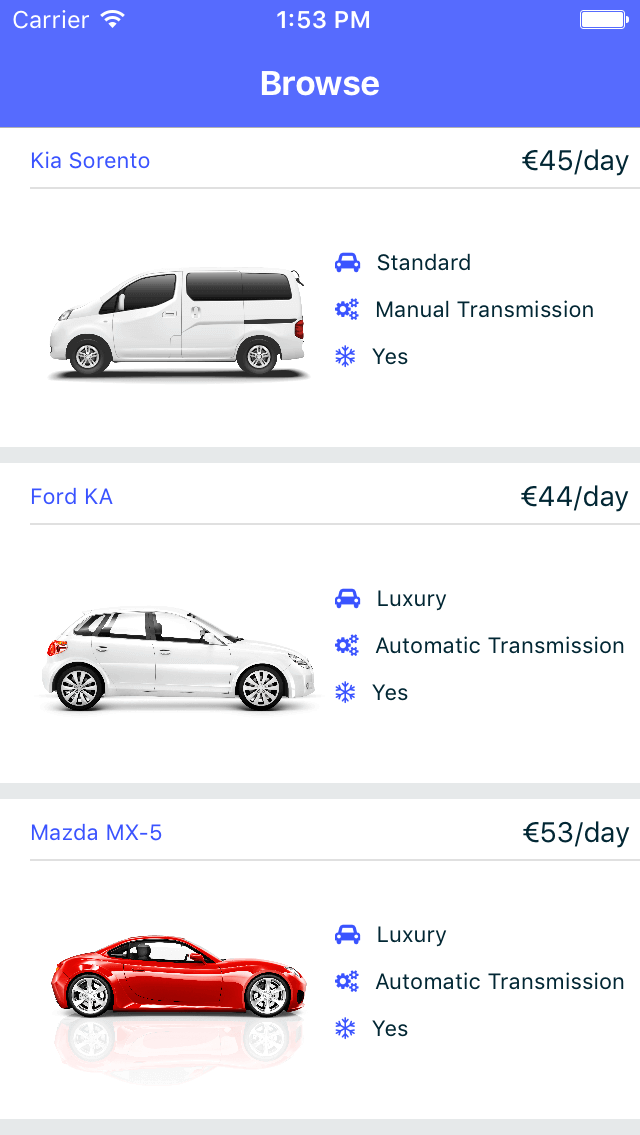
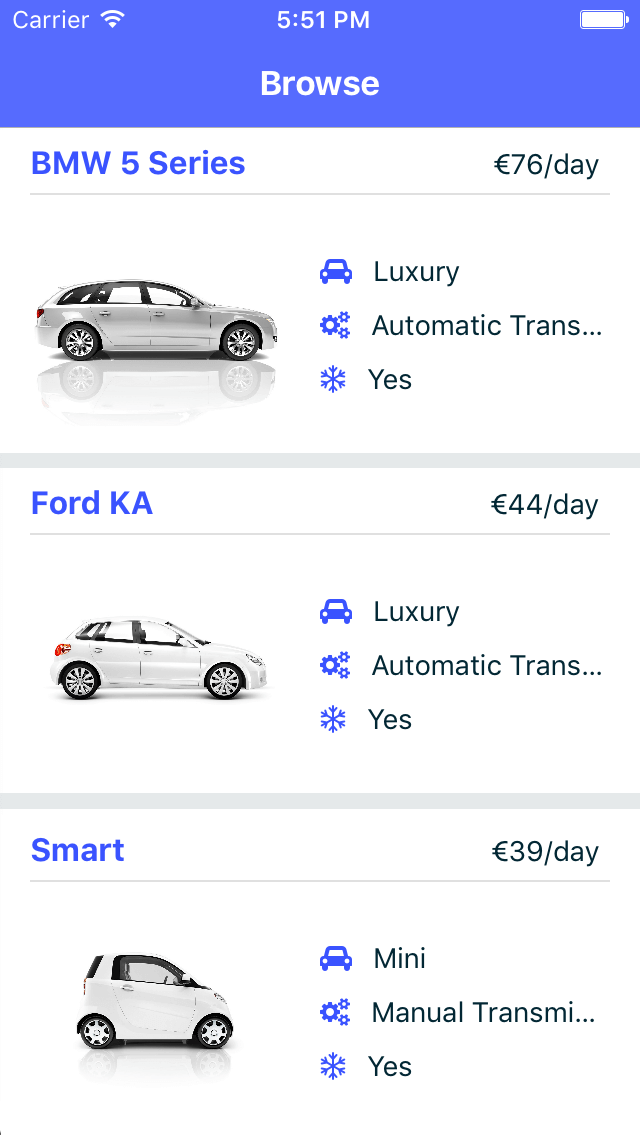
After UX Review (#39)
TP - http://teampulse.telerik.com/view#item/346700

diff --git a/cars/car-detail/car-detail.component.html b/cars/car-detail/car-detail.component.html
@@ -9,13 +9,14 @@
 
 <GridLayout class="page page-content">
     <ScrollView>
-        <GridLayout rows="auto,auto">
-            <Image [src]="car.imageUrl" stretch="aspectFit" height="200" decodeHeight="200"
-                class="m-b-15"></Image>
+        <GridLayout rows="auto, auto, auto">
+            <Image [src]="car.imageUrl" stretch="aspectFill" height="200" class="m-b-15" decodeHeight="200" ></Image>
 
-            <GridLayout row="1" rows="*,*,*,*,*,*" columns="*,2*">
+            <StackLayout row="1" class="hr-light m-t-15 m-b-15"></StackLayout>
 
-                <Label text="Price" class="p-l-15 p-b-10 text-secondary"></Label>
+            <GridLayout row="2" rows="*,*,*,*,*,*" columns="*,2*">
+
+                <Label text="Price" class="p-l-15 p-b-10 m-r-20 text-secondary"></Label>
                 <Label col="1" class="text p-b-10">
                     <FormattedString>
                         <Span text="&euro;"></Span>
@@ -24,19 +25,19 @@
                     </FormattedString>
                 </Label>
 
-                <Label text="Class" class="p-l-15 p-b-10 text-secondary" row="1"></Label>
+                <Label text="Class" class="p-l-15 p-b-10 m-r-20 text-secondary" row="1"></Label>
                 <Label [text]="car.class" row="1" col="1" class="text p-b-10"></Label>
 
-                <Label text="Doors" class="p-l-15 p-b-10 text-secondary" row="2"></Label>
+                <Label text="Doors" class="p-l-15 p-b-10 m-r-20 text-secondary" row="2"></Label>
                 <Label [text]="car.doors" row="2" col="1" class="text p-b-10"></Label>
 
-                <Label text="Seats" class="p-l-15 p-b-10 text-secondary" row="3"></Label>
+                <Label text="Seats" class="p-l-15 p-b-10 m-r-20 text-secondary" row="3"></Label>
                 <Label [text]="car.seats" row="3" col="1" class="text p-b-10"></Label>
 
-                <Label text="Transmission" class="p-l-15 p-b-10 text-secondary" row="4"></Label>
+                <Label text="Transmission" class="p-l-15 m-r-20 p-b-10 text-secondary" row="4"></Label>
                 <Label [text]="car.transmission" row="4" col="1" class="text p-b-10"></Label>
 
-                <Label text="Luggage" class="p-l-15 p-b-10 text-secondary" row="5"></Label>
+                <Label text="Luggage" class="p-l-15 p-b-10 m-r-20 text-secondary" row="5"></Label>
                 <Label [text]="car.luggage" row="5" col="1" class="text p-b-10"></Label>
             </GridLayout>
         </GridLayout>

diff --git a/cars/car-list.component.html b/cars/car-list.component.html
@@ -15,7 +15,7 @@
         <ng-template tkListItemTemplate let-car="item">
             <StackLayout class="list-group-item">
                 <GridLayout rows="*, *, *" columns="*, *" class="list-group-item-content">
-                    <Label [text]="car.name" class="text-primary"></Label>
+                    <Label [text]="car.name" class="text-primary font-weight-bold"></Label>
                     <Label col="1" horizontalAlignment="right" class="list-group-item-text m-r-5">
                         <FormattedString>
                             <Span text="&euro;"></Span>
@@ -26,8 +26,7 @@
 
                     <StackLayout row="1" class="hr-light m-t-5 m-b-5" colSpan="2"></StackLayout>
 
-                    <Image row="2" [src]="car.imageUrl" stretch="aspectFit" height="120" decodeHeight="120"
-                        class="m-r-5"></Image>
+                    <Image row="2" [src]="car.imageUrl" stretch="aspectFill" height="120" class="m-r-20" decodeHeight="120" ></Image>
                     <StackLayout row="2" col="1" verticalAlignment="center" class="list-group-item-text">
                         <Label class="p-b-10">
                             <!-- set fontFamily="system" to workaround "Service exited due to Segmentation fault: 11" error -->

diff --git a/cars/car-detail-edit/_car-detail-edit.component.scss b/cars/car-detail-edit/_car-detail-edit.component.scss
@@ -2,24 +2,13 @@
 @import '../../app-variables';
 
 // Custom styles
-$text-primary-font-size: $base-font-size + 2;
 .car-list {
-    font-size: $base-font-size;
 
     .car-list-even,
     .car-list-odd {
         padding: 10 15;
         border-bottom-width: $border-width;
         border-color: $blue-20;
-        font-size: $base-font-size;
-
-        label {
-          font-size: $base-font-size;  
-        }
-
-        .text-primary {
-           font-size: $text-primary-font-size; 
-        }
     }
 
     .car-list-odd {
@@ -28,7 +17,7 @@ $text-primary-font-size: $base-font-size + 2;
     }
 
     .car-list-price {
-        width: 30;
+        width: 35;
         text-align: right;
     }
 

diff --git a/cars/car-detail-edit/my-list-selector/my-list-selector-modal-view.component.html b/cars/car-detail-edit/my-list-selector/my-list-selector-modal-view.component.html
@@ -17,7 +17,7 @@
                     <Label text="&#xf10c;" 
                         class="fa list-modal-view-icon" verticalAlignment="center" 
                         [visibility]="item.isSelected ? 'collapsed' : 'visible'"></Label>
-                    <Label text="&#xf05d;" 
+                    <Label text="&#xf192;" 
                         class="fa list-modal-view-icon selected" verticalAlignment="center" 
                         [visibility]="item.isSelected ? 'visible' : 'collapsed'"></Label>
                     <Label col="1" [text]="item.value"></Label>

diff --git a/cars/_car-list.component.scss b/cars/_car-list.component.scss
@@ -9,8 +9,7 @@
         background-color: $blue-10;
 
         .list-group-item-content {
-            padding-top: 8;
-            padding-left: 15;
+            padding: 8 15 4 15;
             background-color: $background-light;
         }
 

diff --git a/cars/car-detail-edit/my-image-add-remove/_my-image-add-remove.component.scss b/cars/car-detail-edit/my-image-add-remove/_my-image-add-remove.component.scss
@@ -5,7 +5,8 @@
 .thumb {
     background-size: cover;
     background-repeat: no-repeat;
-    font-size: 20em;
+    font-size: 25;
+    font-weight: bold;
     
     .thumb-add {
         background-color: transparent;

diff --git a/cars/car-detail-edit/my-list-selector/_my-list-selector-modal-view.component.scss b/cars/car-detail-edit/my-list-selector/_my-list-selector-modal-view.component.scss
@@ -8,7 +8,6 @@
     
     .list-modal-item {
         vertical-align: center;
-        font-size: $base-font-size;
-        margin-bottom: 5;
+        margin-bottom: 10;
     }
 }

diff --git a/_app-common.scss b/_app-common.scss
@@ -31,9 +31,3 @@ Slider {
 .text-secondary {
     color: $blue-50;
 }
-
-.page-content {
-    label {
-        font-size: $base-font-size;
-    }
-}
